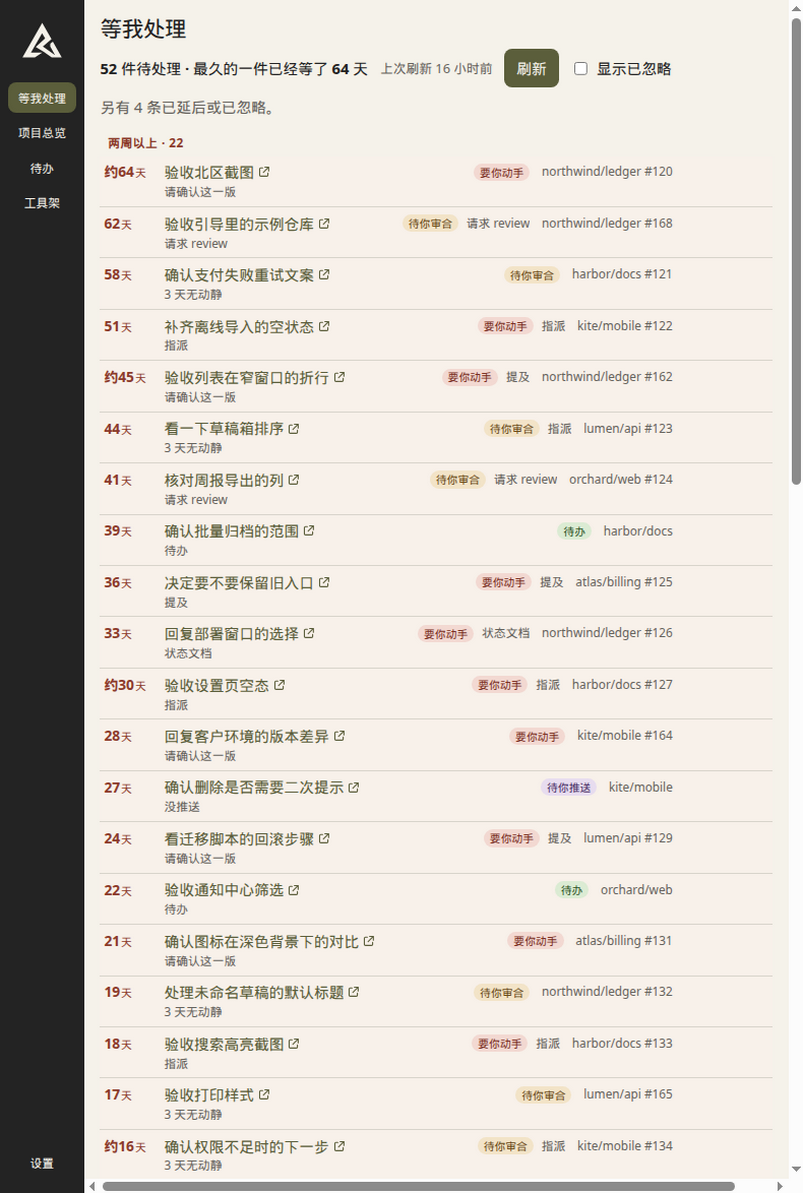
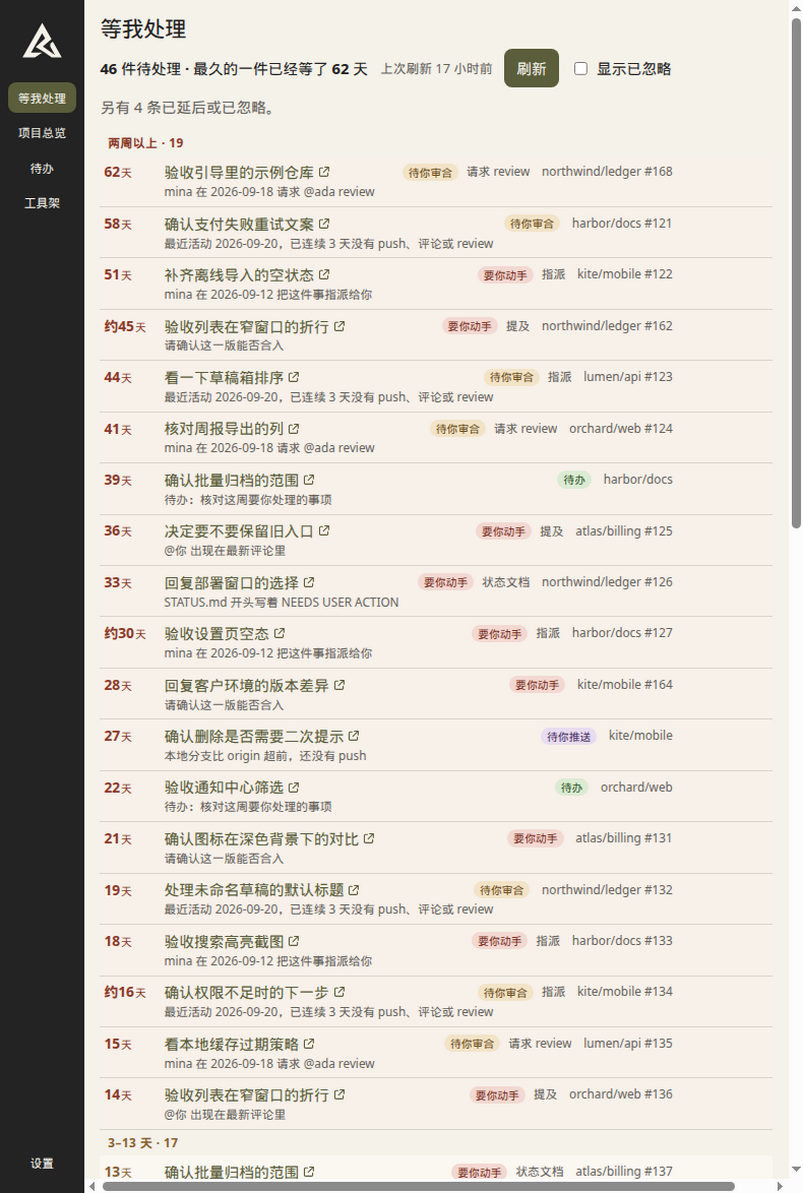
Retake waiting-list screenshots with excerpts and a maybe-related section.
Family rows stay on the main list, and synthetic excerpts name the matched text instead of the rule.

diff --git a/src/shared/waiting/sample.ts b/src/shared/waiting/sample.ts
@@ -79,7 +79,13 @@ export function sampleWaitingRows(): WaitingRow[] {
               ? '请确认这一版能否合入'
               : reasons.includes('提及')
                 ? '@你 出现在最新评论里'
-                : reasons[0] ?? '等待'
+                : reasons.includes('状态文档')
+                  ? 'STATUS.md 开头写着 NEEDS USER ACTION'
+                  : reasons.includes('没推送')
+                    ? '本地分支比 origin 超前，还没有 push'
+                    : reasons.includes('待办')
+                      ? '待办：核对这周要你处理的事项'
+                      : reasons[0] ?? '等待'
     const type = reasons.includes('待办')
       ? 'todo' as const
       : reasons.includes('待你审/合') || reasons.includes('请求 review')

diff --git a/src/main/screenshot-waiting.ts b/src/main/screenshot-waiting.ts
@@ -58,6 +58,7 @@ export function screenshotWaitingSnapshot(scene: ScreenshotScene): WaitingSnapsh
       parentNumber: 40,
       parent: `https://github.com/${repo}/issues/40`,
       childCount: 0,
+      tier: 'strong',
       ignored: false
     })
     return base({
@@ -78,6 +79,7 @@ export function screenshotWaitingSnapshot(scene: ScreenshotScene): WaitingSnapsh
           parentNumber: null,
           parent: null,
           childCount: 2,
+          tier: 'strong',
           ignored: false
         },
         child(41, '核对导出的列名', 4),
